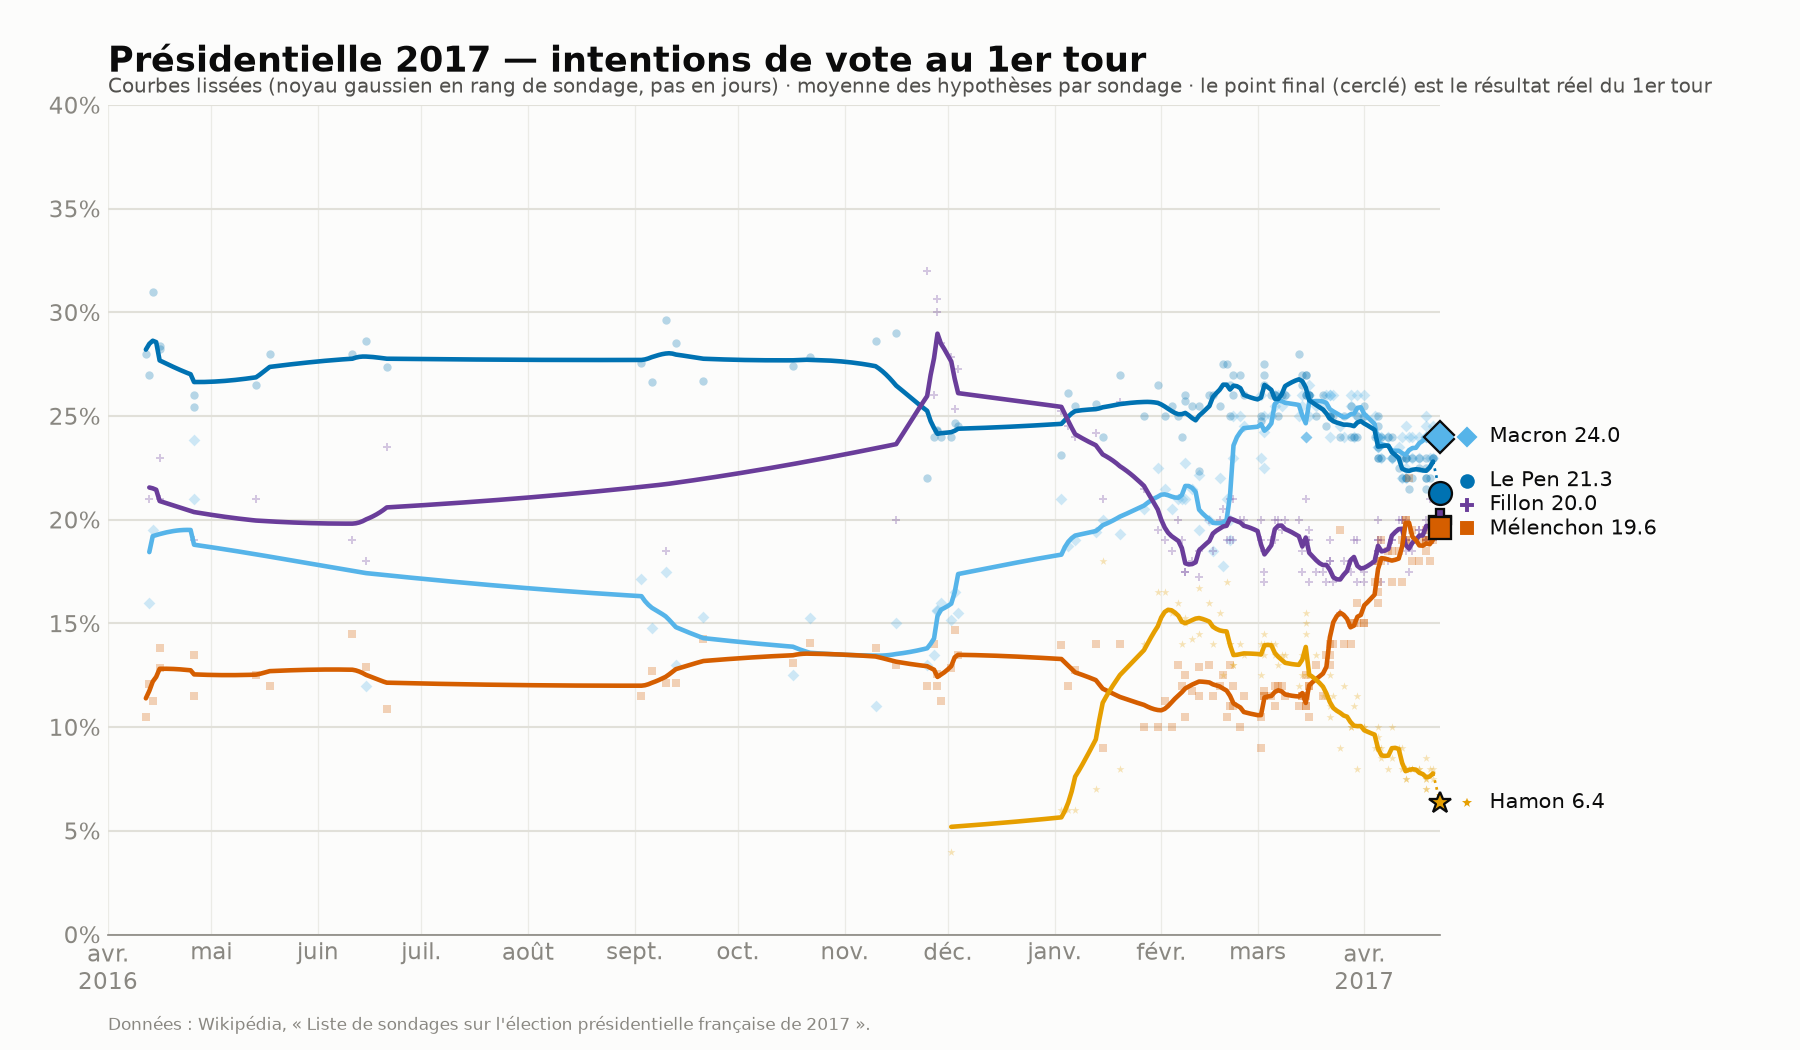
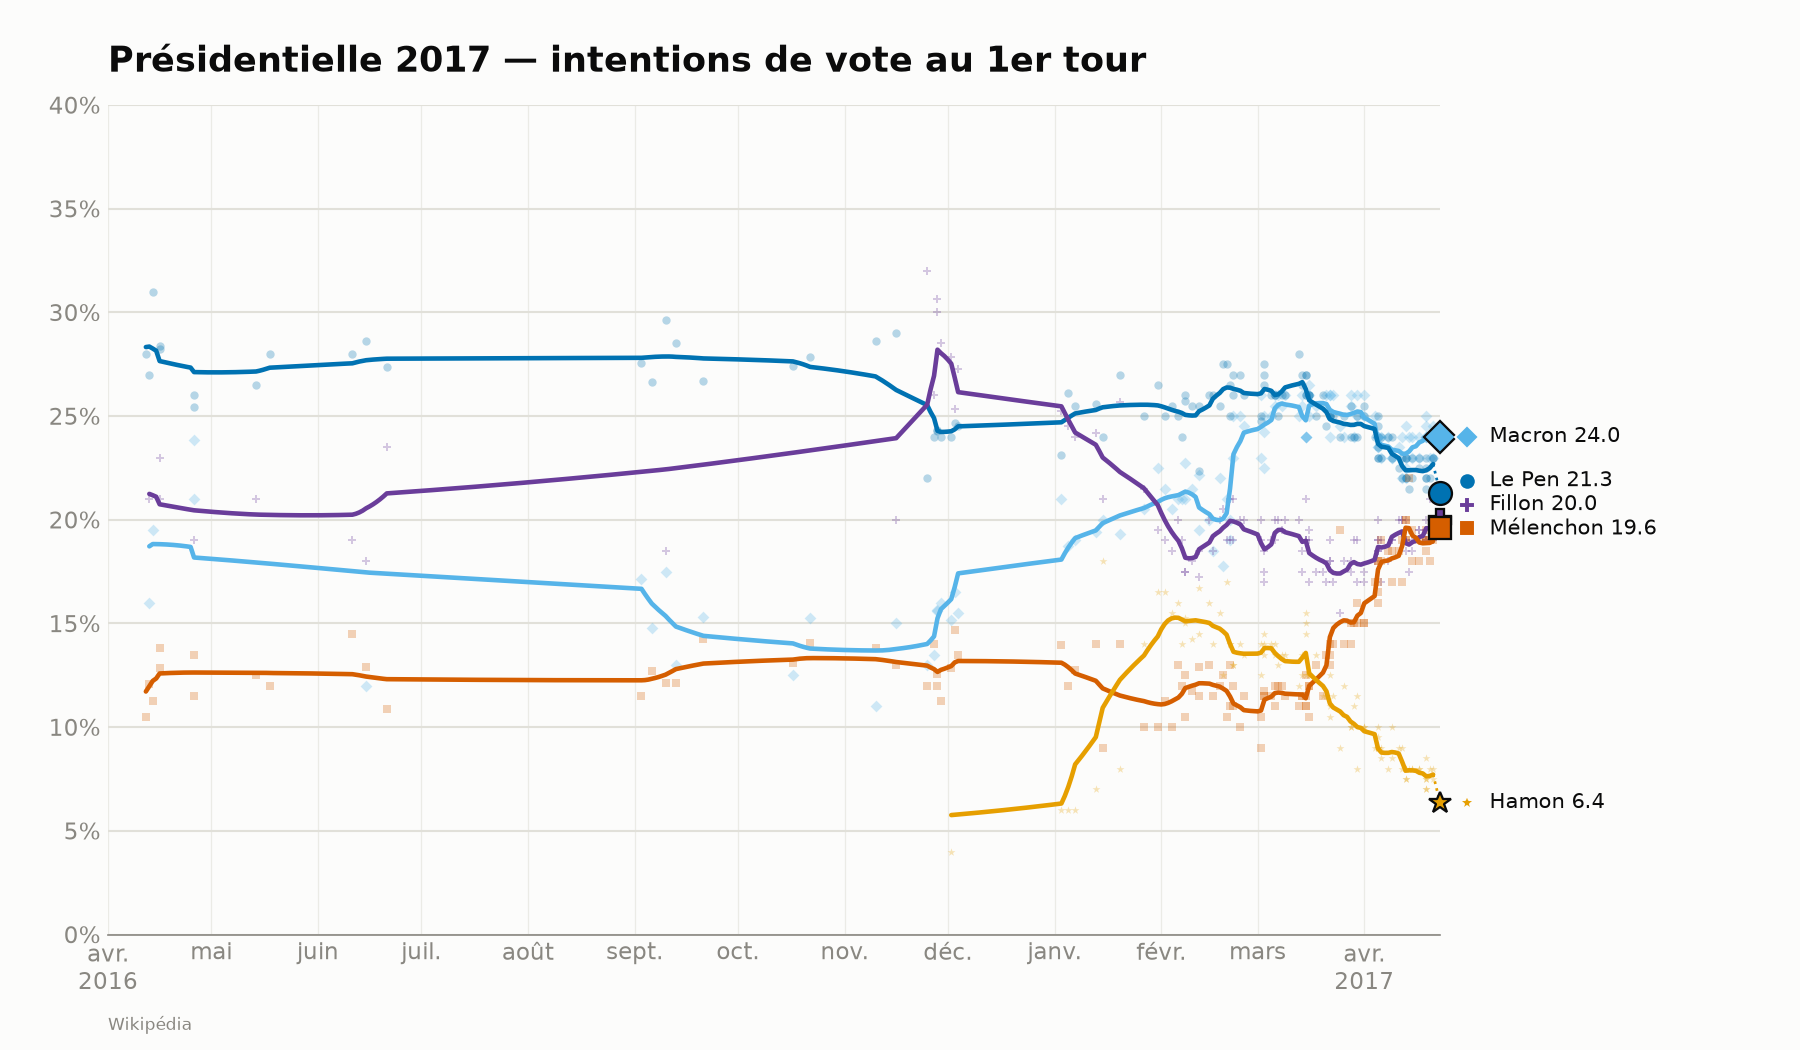
Épure les graphiques de sondages et les affiche côte à côte
Retire le sous-titre méthodologique et le paragraphe d'intro : le
graphique et son titre suffisent, pas besoin de les expliquer.

Passe à une grille avec 2027 en grand à gauche et 2022/2017 empilés
plus petits à droite, pour voir les trois graphiques d'un coup d'œil.

Augmente légèrement la largeur du noyau de lissage (1.5 -> 2.2 rangs
de sondage) pour des courbes un peu plus lisses.

diff --git a/Sondpres/index.html b/Sondpres/index.html
@@ -10,6 +10,28 @@
   <link rel="preconnect" href="https://fonts.gstatic.com" crossorigin>
   <link href="https://fonts.googleapis.com/css2?family=Fredoka:wght@400;600;700&display=swap" rel="stylesheet">
   <link rel="stylesheet" href="../assets/css/style.css">
+  <style>
+    .polls-grid {
+      display: grid;
+      grid-template-columns: 2fr 1fr;
+      gap: 24px;
+      align-items: start;
+      margin: 36px auto;
+    }
+    .polls-grid .project-figure {
+      margin: 0;
+    }
+    .polls-side {
+      display: flex;
+      flex-direction: column;
+      gap: 24px;
+    }
+    @media (max-width: 820px) {
+      .polls-grid {
+        grid-template-columns: 1fr;
+      }
+    }
+  </style>
 </head>
 <body style="--tile-bg: var(--sky);">
   <header class="project-header wrap">
@@ -21,27 +43,25 @@
     <p class="tagline">Une moyenne glissante des intentions de vote au 1er tour, tirée des données Wikipédia.</p>
   </section>
 
-  <figure class="project-figure wrap">
-    <a class="frame" href="sondages_2027.png" target="_blank" rel="noopener">
-      <img src="sondages_2027.png" alt="Moyenne glissante des intentions de vote pour la présidentielle 2027" loading="lazy">
-    </a>
-  </figure>
-
-  <section class="project-body wrap">
-    <p>Pour comparer : les mêmes courbes pour 2022 et 2017, limitées aux cinq candidats arrivés en tête, et qui se terminent sur le résultat réel du 1er tour (entouré) plutôt que sur une estimation.</p>
-  </section>
-
-  <figure class="project-figure wrap">
-    <a class="frame" href="sondages_2022.png" target="_blank" rel="noopener">
-      <img src="sondages_2022.png" alt="Moyenne glissante des intentions de vote pour la présidentielle 2022, jusqu'au résultat réel du 1er tour" loading="lazy">
-    </a>
-  </figure>
-
-  <figure class="project-figure wrap">
-    <a class="frame" href="sondages_2017.png" target="_blank" rel="noopener">
-      <img src="sondages_2017.png" alt="Moyenne glissante des intentions de vote pour la présidentielle 2017, jusqu'au résultat réel du 1er tour" loading="lazy">
-    </a>
-  </figure>
+  <div class="polls-grid wrap">
+    <figure class="project-figure">
+      <a class="frame" href="sondages_2027.png" target="_blank" rel="noopener">
+        <img src="sondages_2027.png" alt="Sondages présidentielle 2027" loading="lazy">
+      </a>
+    </figure>
+    <div class="polls-side">
+      <figure class="project-figure">
+        <a class="frame" href="sondages_2022.png" target="_blank" rel="noopener">
+          <img src="sondages_2022.png" alt="Sondages présidentielle 2022" loading="lazy">
+        </a>
+      </figure>
+      <figure class="project-figure">
+        <a class="frame" href="sondages_2017.png" target="_blank" rel="noopener">
+          <img src="sondages_2017.png" alt="Sondages présidentielle 2017" loading="lazy">
+        </a>
+      </figure>
+    </div>
+  </div>
 
 </body>
 </html>

diff --git a/Sondpres/sondages_2027.py b/Sondpres/sondages_2027.py
@@ -58,7 +58,7 @@ import lxml.html as LH
 # ---------------------------------------------------------------------------
 API_URL = "https://fr.wikipedia.org/w/api.php"
 USER_AGENT = "sondages-2027-chart/1.0 (script pédagogique)"
-RANK_BANDWIDTH = 1.5   # écart-type du noyau de lissage, en RANGS de sondage (pas en jours)
+RANK_BANDWIDTH = 2.2   # écart-type du noyau de lissage, en RANGS de sondage (pas en jours)
 
 # Couleur + marqueur par PARTI (pas par candidat) : un même parti garde le
 # même code visuel d'une élection à l'autre — ex. Macron 2017/2022 et Attal
@@ -559,14 +559,7 @@ def make_chart(df: pd.DataFrame, config: ElectionConfig, final_results: dict,
 
     ax.set_title(f"Présidentielle {config.year} — intentions de vote au 1er tour",
                  fontsize=17, fontweight="bold", loc="left", color=INK, pad=16)
-    subtitle = ("Courbes lissées (noyau gaussien en rang de sondage, pas en jours) "
-                "· moyenne des hypothèses par sondage")
-    if has_result:
-        subtitle += " · le point final (cerclé) est le résultat réel du 1er tour"
-    ax.text(0, 1.015, subtitle, transform=ax.transAxes, fontsize=9.5, color=INK_SECOND)
-    ax.text(0, -0.115,
-            f"Données : Wikipédia, « {config.page_title} ».",
-            transform=ax.transAxes, fontsize=8, color=MUTED)
+    ax.text(0, -0.115, "Wikipédia", transform=ax.transAxes, fontsize=8, color=MUTED)
 
     fig.savefig(outfile, dpi=150, facecolor=SURFACE)
     print(f"✓ Graphique écrit : {outfile}  ({len(df)} points, "